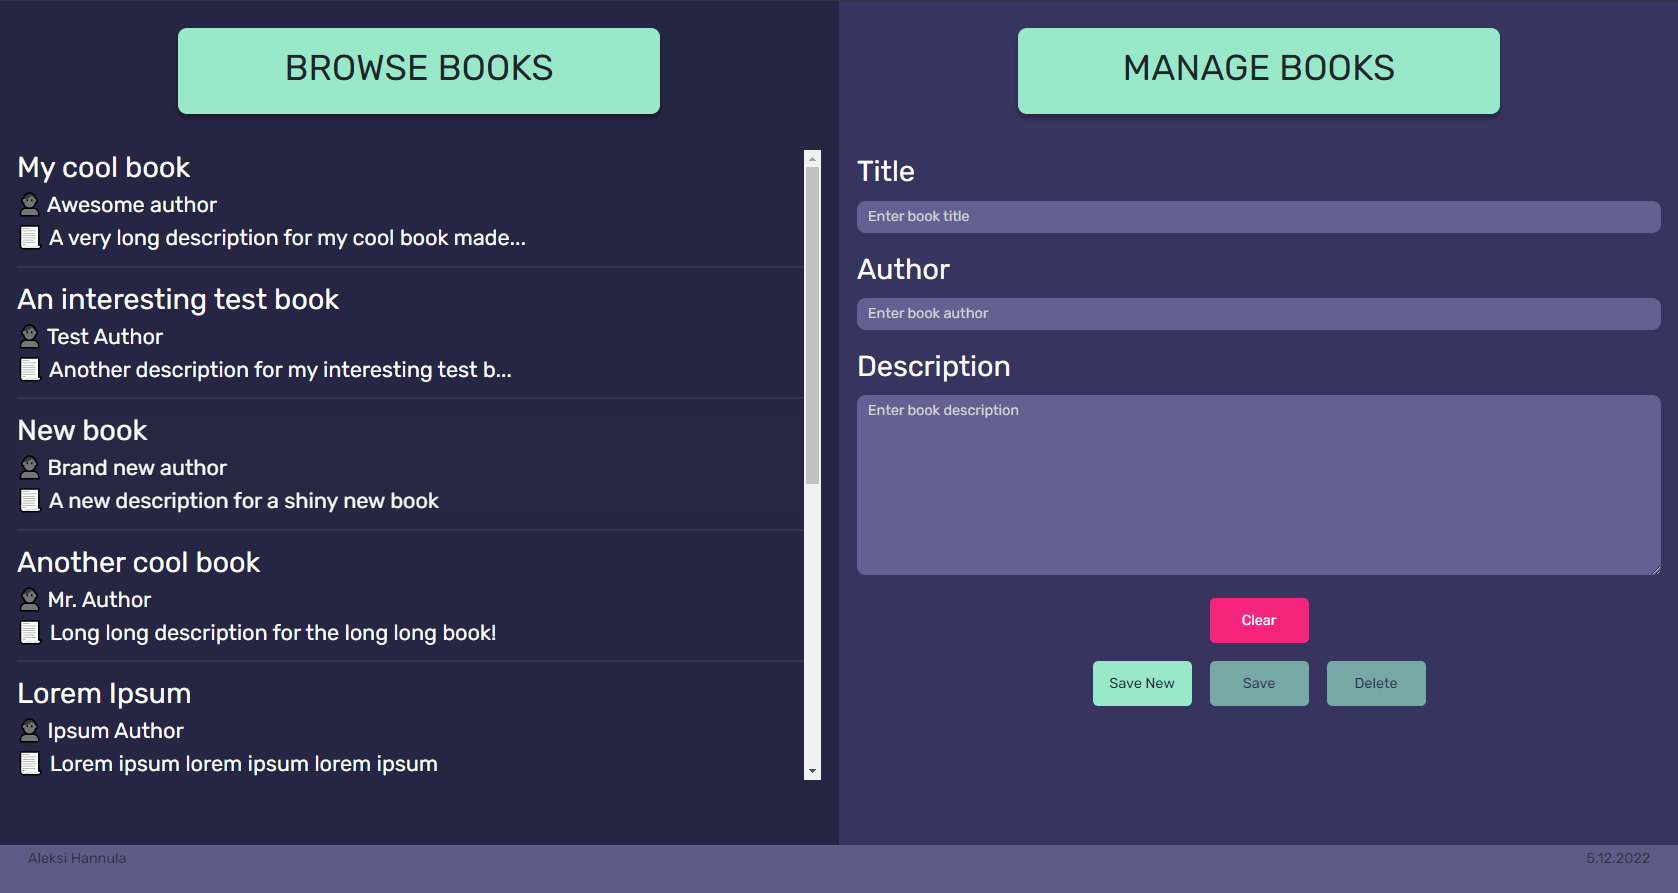
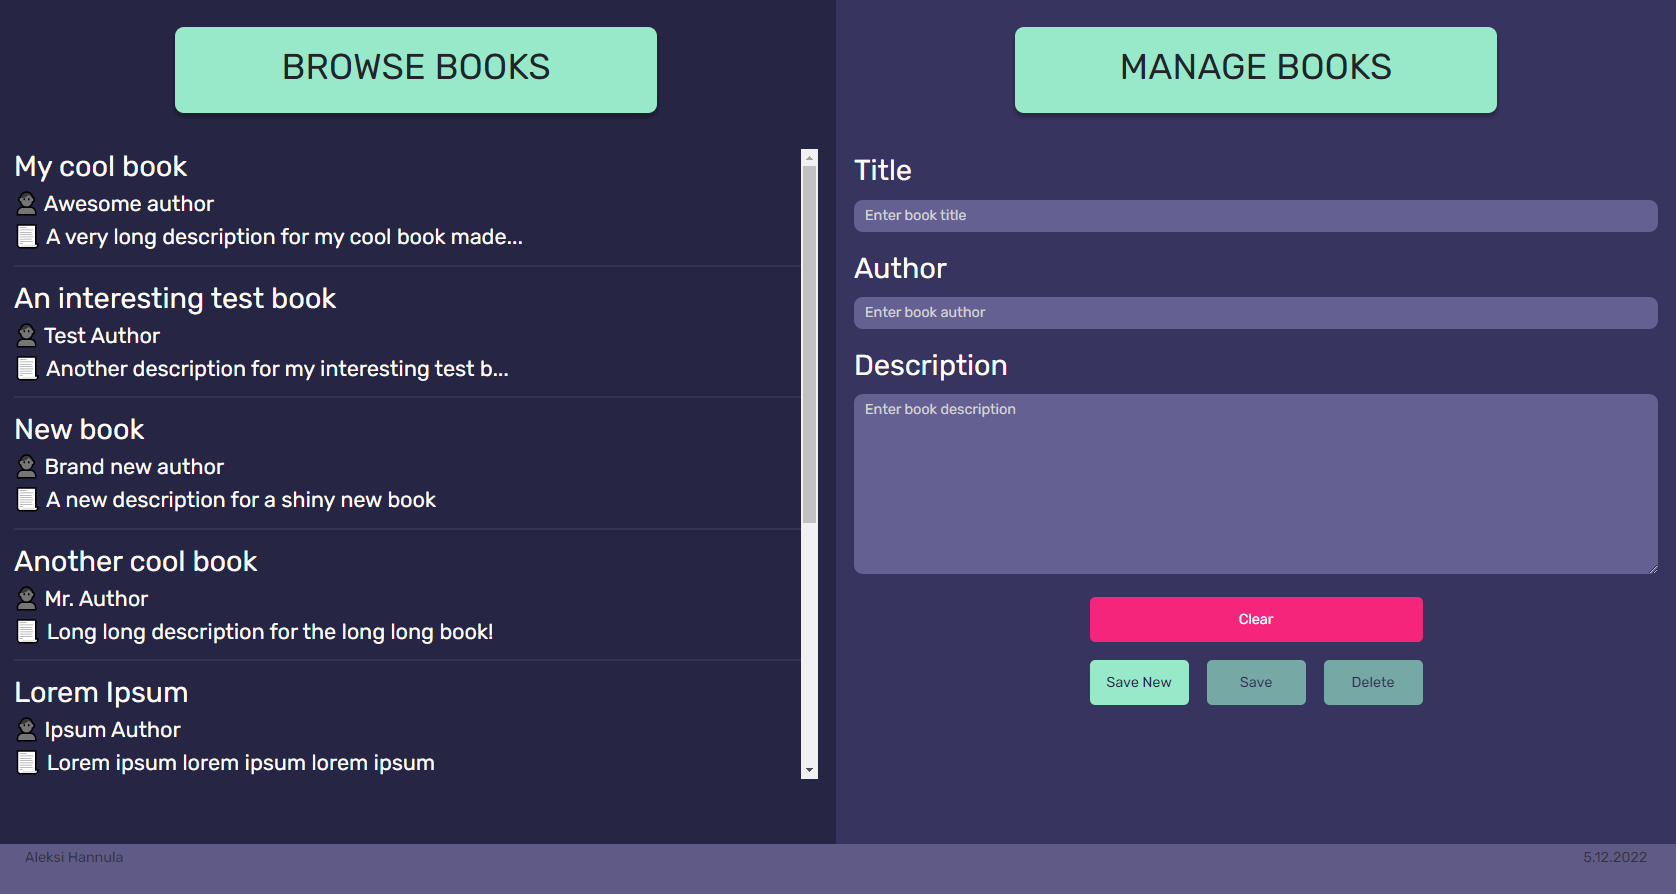
added id to Clear button

diff --git a/src/components/BookForm.js b/src/components/BookForm.js
@@ -199,7 +199,7 @@ export default function BookForm({selectedBook, updateSelectedBook}) {
         </Form.Group>
 
         <div className="primaryButtons">
-            <Button variant="warning" data-testid="clearBtn" onClick={clearForm}>
+            <Button variant="warning" data-testid="clearBtn" id="clear" onClick={clearForm}>
                     Clear
             </Button>
         </div>
